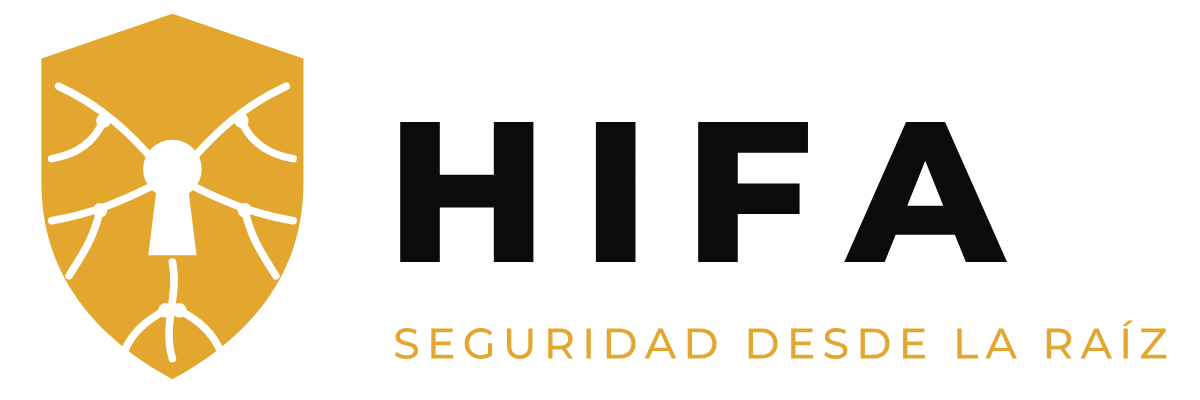
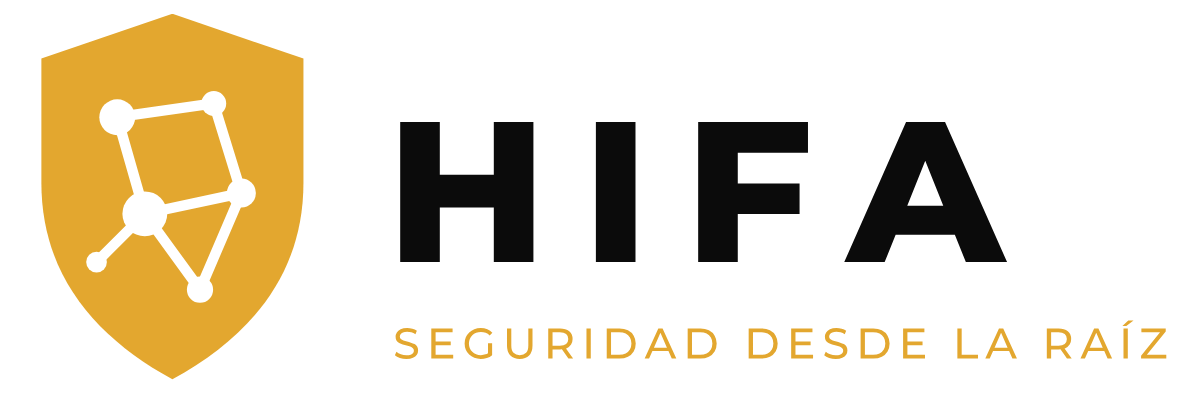
feat(marca): interior del escudo HIFA como red de nodos
El escudo cambia las hifas en espejo (se leían como una cara) por una red
asimétrica de nodos: una cerradura abstracta donde los nodos son puntos de acceso.
Se incluyen los scripts que generan el logo en tools/marca/.

Claude-Session: https://claude.ai/code/session_01VhFUkbdnRAoBuVdCTeVJGp

Changed region(s): [[0.0308, 0.21, 0.2467, 0.9], [0.2158, 0.63, 0.2467, 0.69], [0.0308, 0.21, 0.0617, 0.24]]

diff --git a/tools/marca/generar_logo_hifa.py b/tools/marca/generar_logo_hifa.py
@@ -1,0 +1,67 @@
+"""Genera el logo de HIFA en SVG (texto convertido a trazos, sin depender de fuentes instaladas)."""
+from fontTools.ttLib import TTFont
+from fontTools.pens.svgPathPen import SVGPathPen
+from fontTools.pens.transformPen import TransformPen
+import os, sys
+
+OUT = sys.argv[1]
+os.makedirs(OUT, exist_ok=True)
+FONTS = '/tmp/fonts/package/files/'
+GOLD, CREAM, INK = '#E3A72F', '#F3EAD8', '#0B0B0B'
+
+def texto(s, font, size, x, y, spacing=0.0, anchor='middle'):
+    """Devuelve (path_d, ancho) del texto como trazos. x,y = línea base."""
+    f = TTFont(FONTS + font)
+    gs = f.getGlyphSet(); cmap = f.getBestCmap(); upm = f['head'].unitsPerEm
+    k = size / upm
+    names = [cmap[ord(c)] for c in s]
+    adv = [gs[n].width * k for n in names]
+    total = sum(adv) + spacing * (len(s) - 1)
+    cx = x - total / 2 if anchor == 'middle' else (x - total if anchor == 'end' else x)
+    pen = SVGPathPen(gs)
+    for n, a in zip(names, adv):
+        tp = TransformPen(pen, (k, 0, 0, -k, cx, y))
+        gs[n].draw(tp)
+        cx += a + spacing
+    return pen.getCommands(), total
+
+# Escudo con hifas, dibujado en una caja de 100x110 con origen arriba a la izquierda
+def escudo(tx, ty, s, fondo=None, color=GOLD, uid='e'):
+    """Escudo dorado con una red de nodos recortada (transparente): la cerradura abstracta de HIFA.
+    Los nodos son puntos de acceso; las líneas, las hifas que los conectan."""
+    nodos = [(34, 30, 5.2), (62, 26, 3.6), (70, 52, 4.2), (42, 58, 6.5), (58, 80, 3.8), (28, 72, 3.0)]
+    enlaces = [(0, 1), (1, 2), (0, 3), (2, 3), (3, 4), (3, 5), (2, 4)]
+    m = f'<mask id="{uid}" maskUnits="userSpaceOnUse" x="0" y="0" width="100" height="110"><rect width="100" height="110" fill="#fff"/>'
+    m += '<g fill="none" stroke="#000" stroke-width="3" stroke-linecap="round">'
+    m += ''.join(f'<path d="M{nodos[a][0]} {nodos[a][1]} L{nodos[b][0]} {nodos[b][1]}"/>' for a, b in enlaces) + '</g>'
+    m += ''.join(f'<circle cx="{x}" cy="{y}" r="{r}" fill="#000"/>' for x, y, r in nodos) + '</mask>'
+    return (f'<g transform="translate({tx} {ty}) scale({s})"><defs>{m}</defs>'
+            f'<path d="M50 0 L88 13 V49 C88 76 72 94 50 106 C28 94 12 76 12 49 V13 Z" fill="{color}" mask="url(#{uid})"/></g>')
+
+def svg(w, h, body, title):
+    return (f'<svg xmlns="http://www.w3.org/2000/svg" viewBox="0 0 {w} {h}" width="{w}" height="{h}" '
+            f'role="img" aria-label="{title}"><title>{title}</title>{body}</svg>\n')
+
+# 1. Logo completo (insignia circular)
+d_hifa, _ = texto('HIFA', 'montserrat-latin-800-normal.woff', 66, 200, 292, spacing=12)
+d_tag, _ = texto('SEGURIDAD DESDE LA RAÍZ', 'montserrat-latin-500-normal.woff', 12.5, 200, 328, spacing=1.8)
+body = (f'<circle cx="200" cy="200" r="194" fill="{INK}"/>'
+        f'<circle cx="200" cy="200" r="182" fill="none" stroke="{GOLD}" stroke-width="7"/>'
+        + escudo(122, 46, 1.56) +
+        f'<path d="{d_hifa}" fill="{CREAM}"/><rect x="130" y="306" width="140" height="2" fill="{GOLD}"/>'
+        f'<path d="{d_tag}" fill="{GOLD}"/>')
+open(f'{OUT}/hifa-logo.svg', 'w').write(svg(400, 400, body, 'HIFA, seguridad desde la raíz'))
+
+# 2. Horizontal (para encabezados), versión para fondo oscuro y para fondo claro
+for nombre, txt, fondo_escudo in [('hifa-horizontal-oscuro', CREAM, INK), ('hifa-horizontal-claro', INK, '#FFFFFF')]:
+    d_h, wh = texto('HIFA', 'montserrat-latin-800-normal.woff', 58, 112, 76, spacing=10, anchor='start')
+    d_t, wt = texto('SEGURIDAD DESDE LA RAÍZ', 'montserrat-latin-500-normal.woff', 12.5, 114, 104, spacing=2, anchor='start')
+    W = int(112 + max(wh, wt) + 12)
+    body = escudo(0, 4, 1.0, fondo=fondo_escudo) + f'<path d="{d_h}" fill="{txt}"/><path d="{d_t}" fill="{GOLD}"/>'
+    open(f'{OUT}/{nombre}.svg', 'w').write(svg(W, 116, body, 'HIFA'))
+
+# 3. Ícono: escudo solo (transparente) y versión con fondo para redes sociales
+open(f'{OUT}/hifa-icono.svg', 'w').write(svg(100, 110, escudo(0, 2, 1.0) , 'HIFA'))
+body = f'<rect width="512" height="512" rx="112" fill="{INK}"/>' + escudo(106, 92, 3.0)
+open(f'{OUT}/hifa-icono-redes.svg', 'w').write(svg(512, 512, body, 'HIFA'))
+print('ok', sorted(os.listdir(OUT)))

diff --git a/tools/marca/exportar_png.py b/tools/marca/exportar_png.py
@@ -1,0 +1,14 @@
+import asyncio,sys,re
+from playwright.async_api import async_playwright
+jobs=sys.argv[1:]  # svg:out:width
+async def main():
+    async with async_playwright() as p:
+        b=await p.chromium.launch()
+        for j in jobs:
+            src,out,w=j.split(':'); w=int(w)
+            s=open(src).read(); vw,vh=map(float,re.search(r'viewBox="0 0 ([\d.]+) ([\d.]+)"',s).group(1,2)); h=round(w*vh/vw)
+            pg=await b.new_page(viewport={'width':w,'height':h})
+            await pg.set_content(f'<html><body style="margin:0;background:transparent">{s.replace("<svg ","<svg style=\'display:block;width:%dpx;height:%dpx\' "%(w,h),1)}</body></html>')
+            await pg.screenshot(path=out,omit_background=True); await pg.close()
+        await b.close()
+asyncio.run(main())
